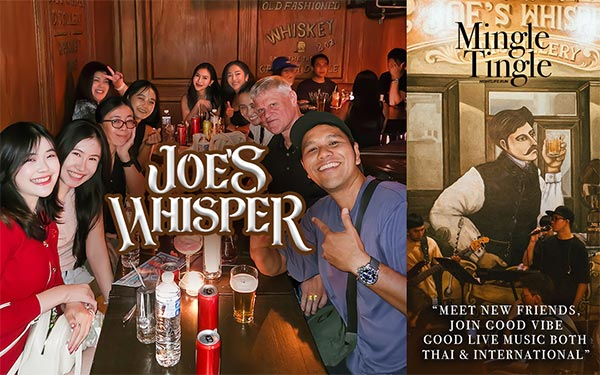
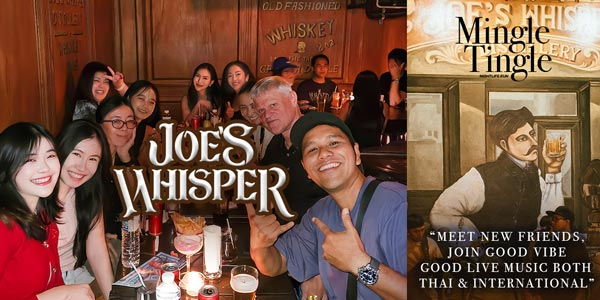
update1

diff --git a/src/components/VideotextnightlifeMobile.jsx b/src/components/VideotextnightlifeMobile.jsx
@@ -227,7 +227,7 @@ function VideotextnightlifeMobile() {
                 <div
                   style={{
                     width: "100%",
-                    aspectRatio: "1.6",
+                    aspectRatio: "2",
                     maxHeight: "22vh",
                     marginBottom: "0px",
                   }}
